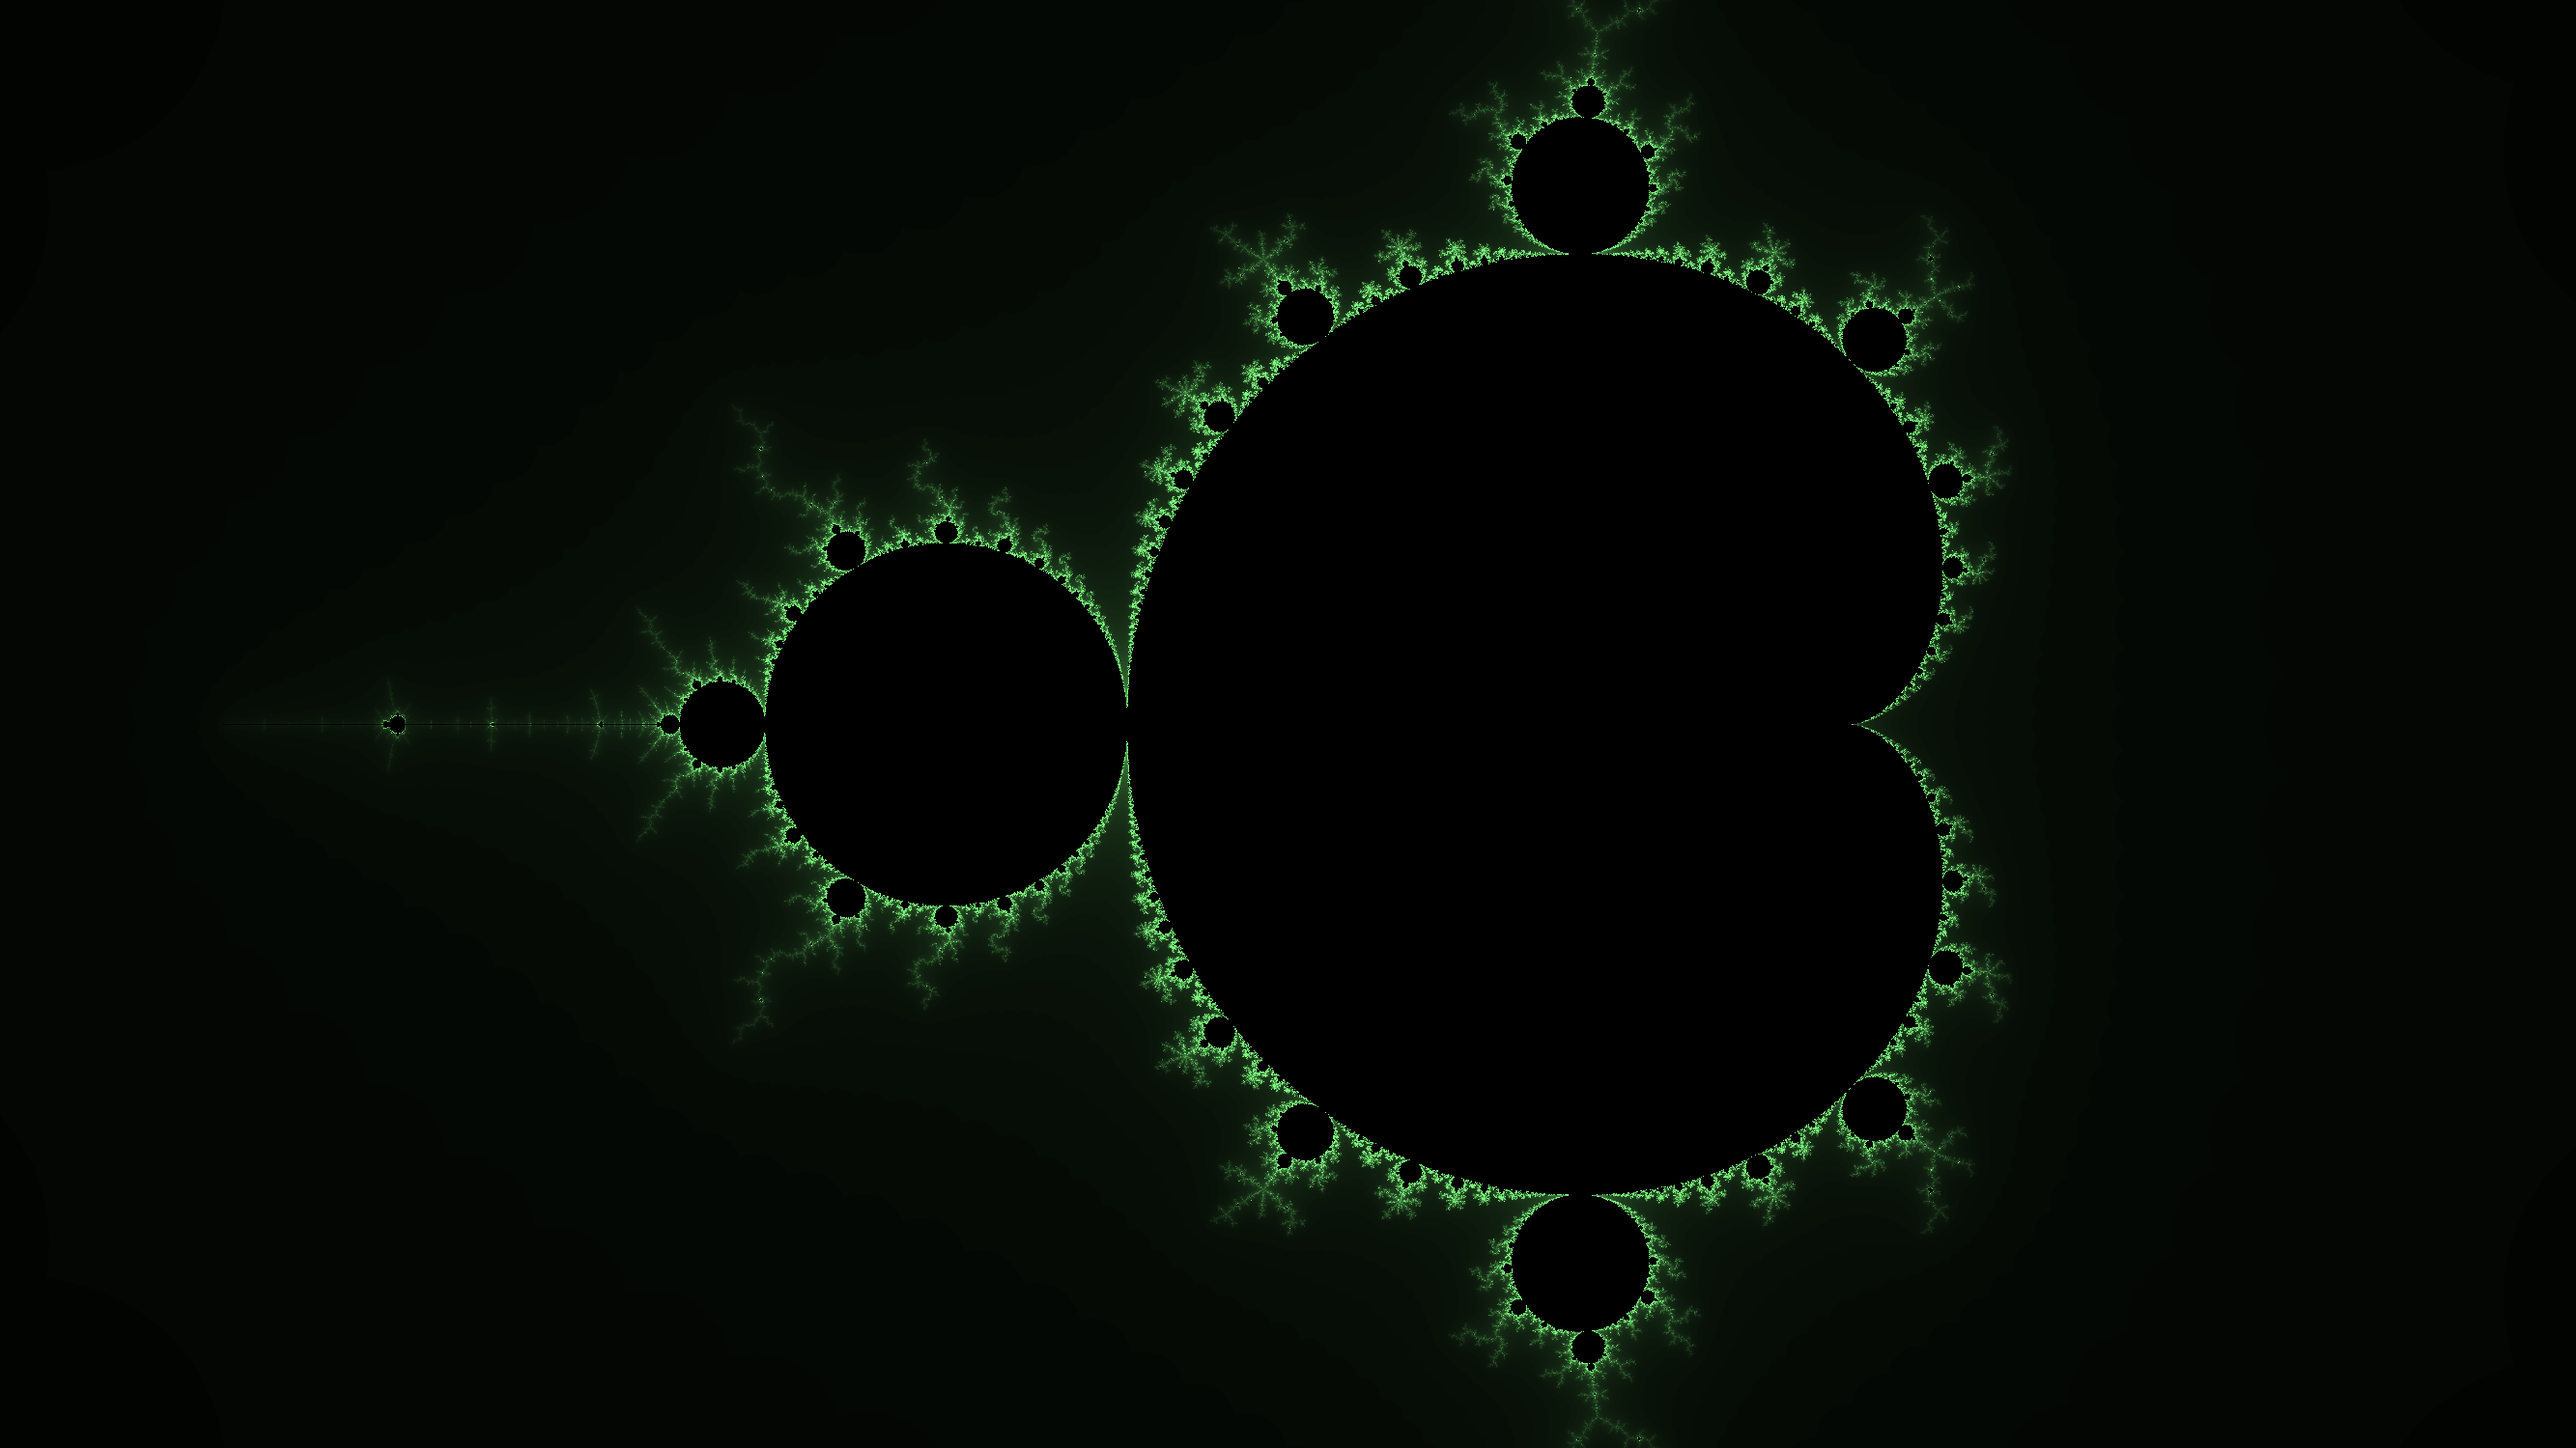
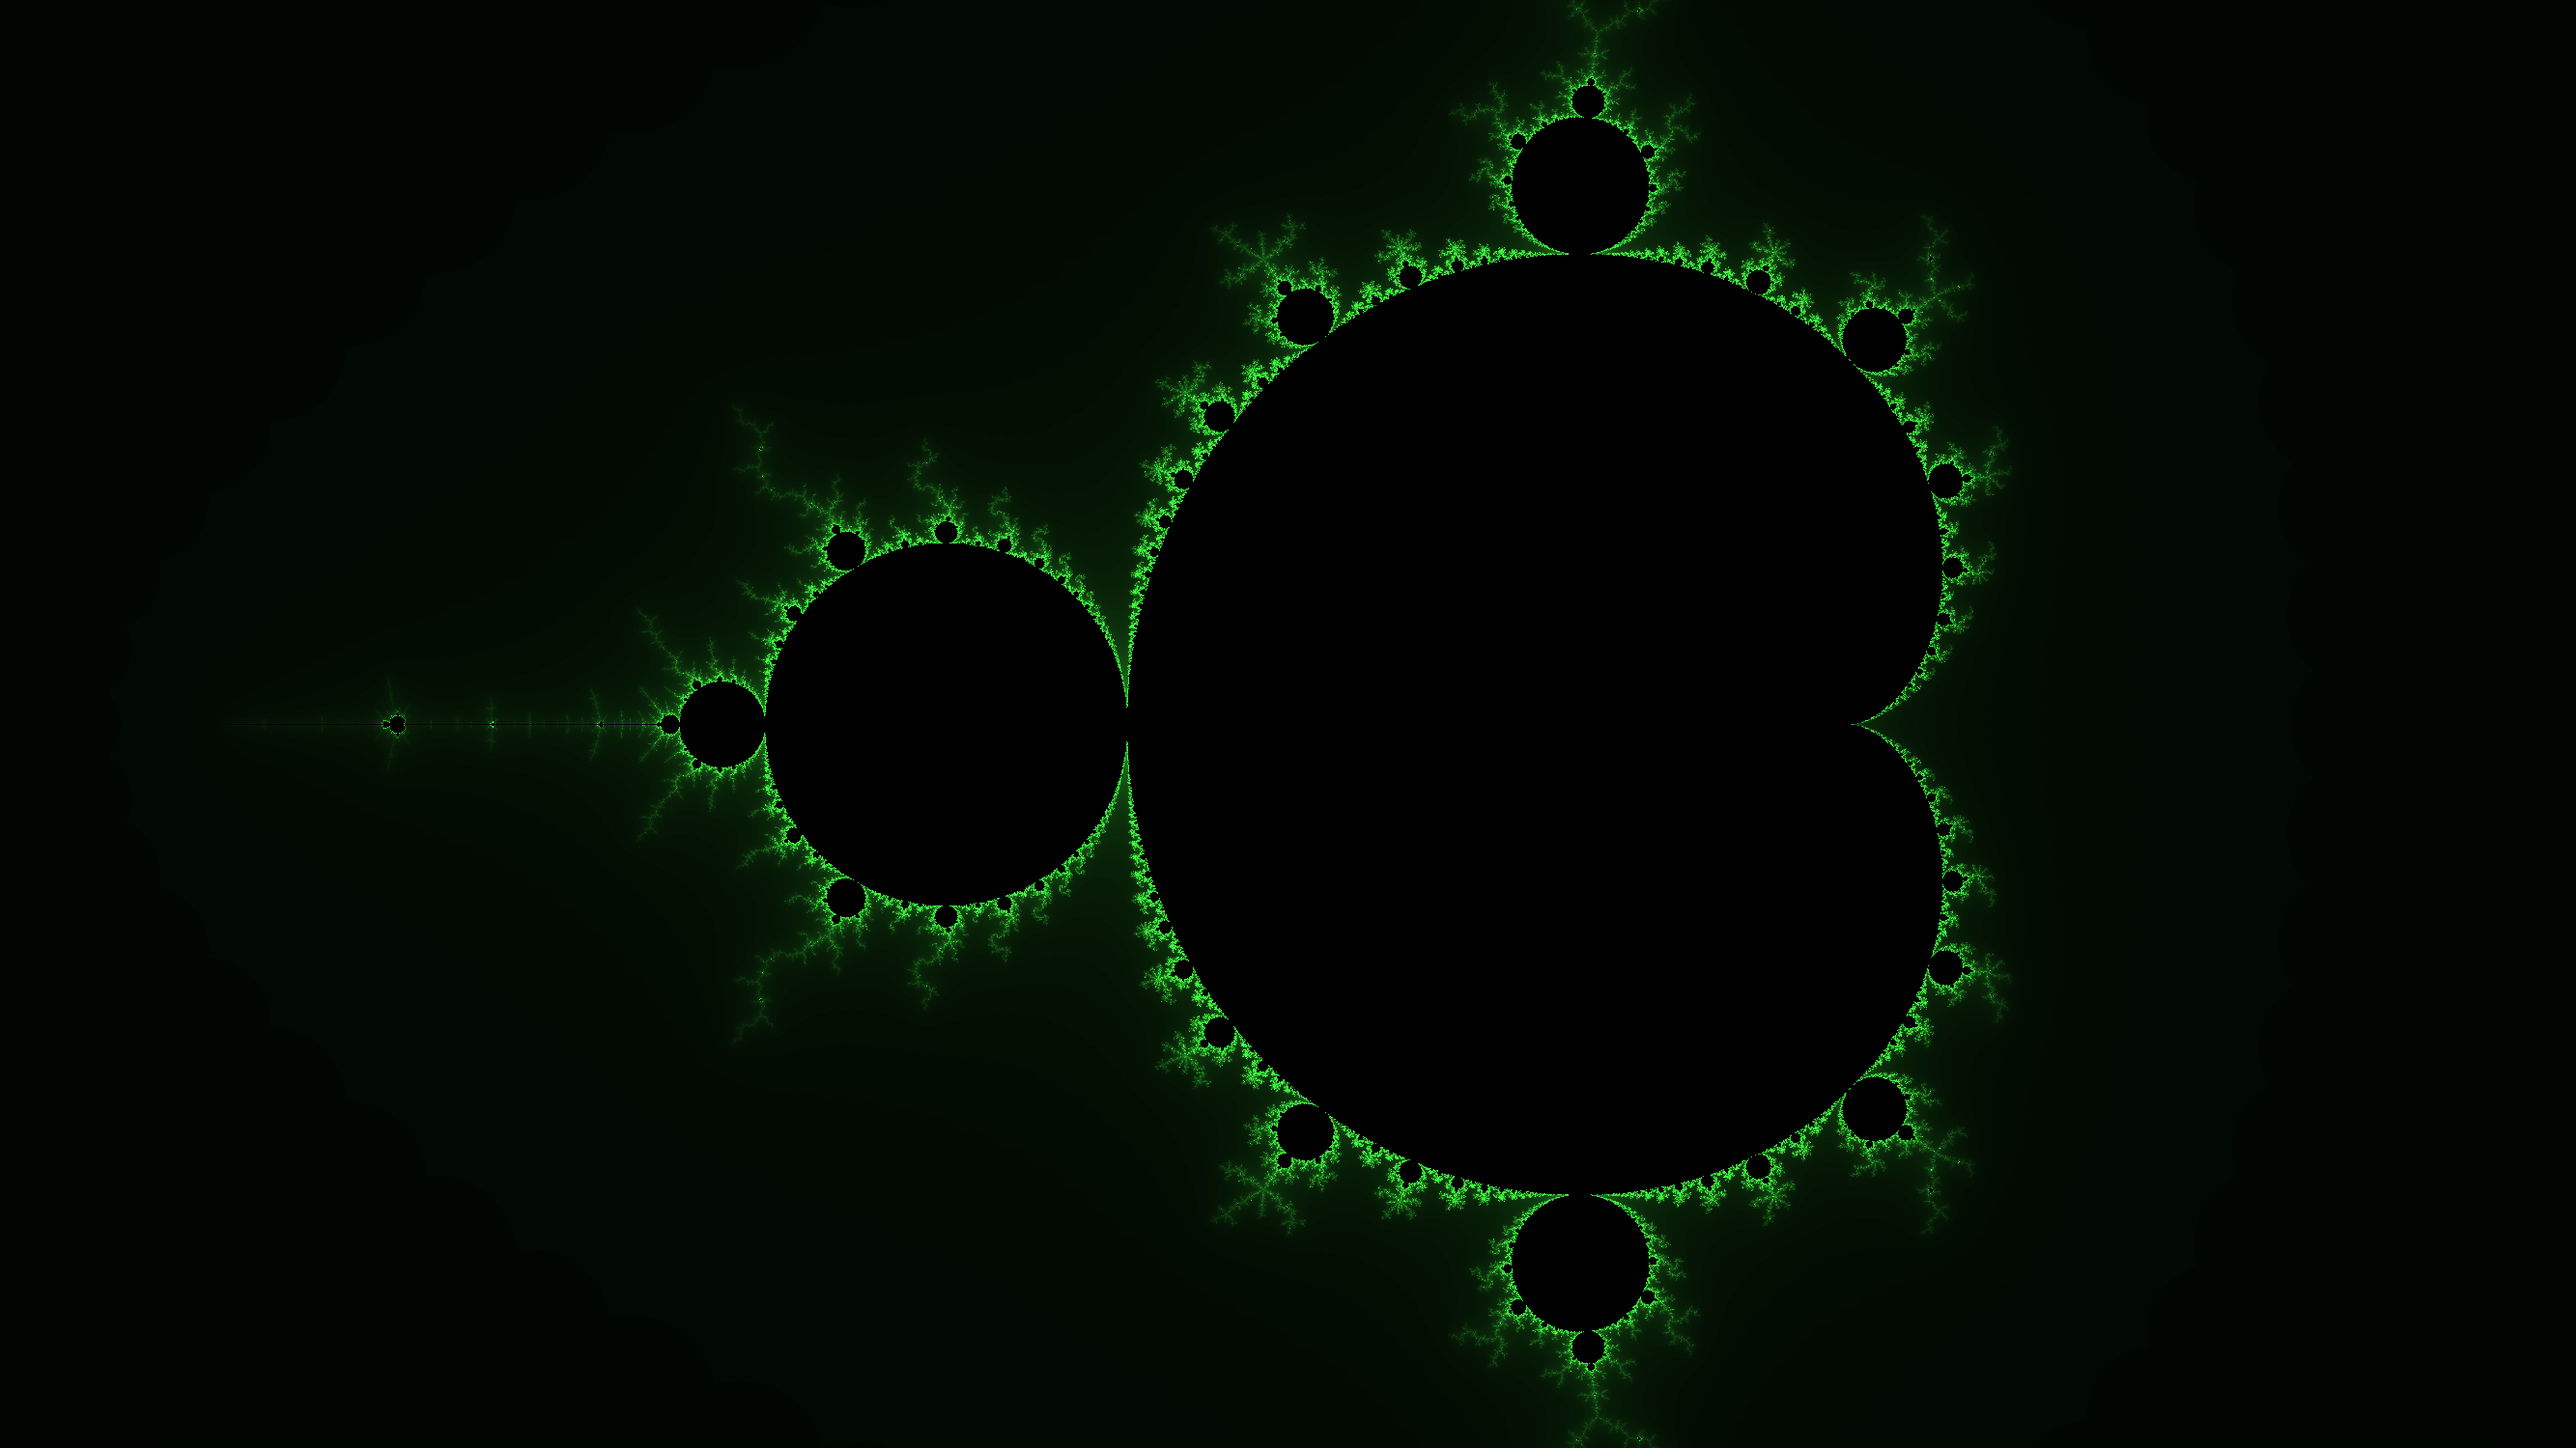
preview update

diff --git a/mandlebrot.py b/mandlebrot.py
@@ -45,9 +45,9 @@ xrange = abs(rangeX[0]-rangeX[1])
 yrange = abs(rangeY[0]-rangeY[1])
 resolution = 500/min(xrange/3,yrange/3)
 width, height = round(xrange*resolution), round(yrange*resolution)
-infRange = 100
-accuracy = 500
-col = (127,255,127)#white
+infRange = 150
+accuracy = 750
+col = (64,255,64)#white
 #col = (86, 29, 201)#purple
 #col = (127,0,0)#maroon
 
@@ -61,7 +61,7 @@ def j(cord,cord2,x,y,surface):
         count = count+1
         cord = ((cord[0]*cord[0])-(cord[1]*cord[1]) + cord2[0],(2*cord[0]*cord[1]) + cord2[1])
         continue
-    thing = clamp(count/(accuracy/4),0,1)
+    thing = clamp(count/(accuracy/6),0,1)
     surface.set_at((x, y), (thing*col[0],thing*col[1],thing*col[2]))
     return
 
